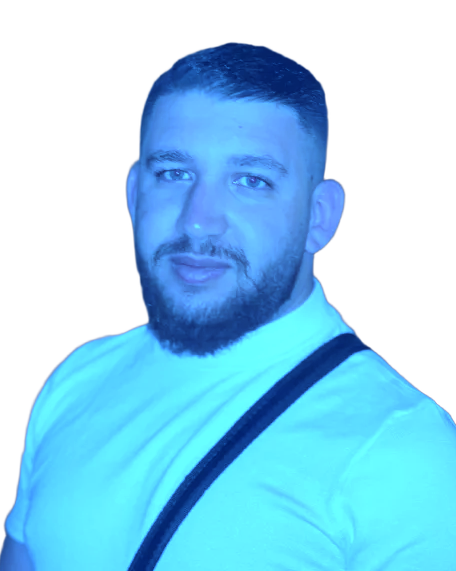
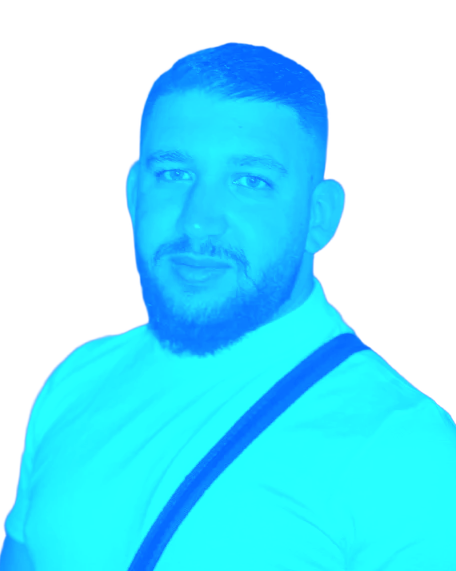
Push portrait further into the site cyan palette.

diff --git a/src/App.css b/src/App.css
@@ -179,6 +179,7 @@
 
 .photo-frame {
   position: relative;
+  isolation: isolate;
   width: min(100%, 280px);
   aspect-ratio: 4 / 5;
   border-radius: 1rem;
@@ -188,6 +189,16 @@
     linear-gradient(145deg, rgba(15, 23, 42, 0.9), rgba(8, 10, 12, 0.95)),
     radial-gradient(circle at 30% 20%, rgba(34, 211, 238, 0.12), transparent 55%);
   box-shadow: 0 20px 50px rgba(0, 0, 0, 0.35);
+}
+
+.photo-frame::after {
+  content: '';
+  position: absolute;
+  inset: 0;
+  background: #22d3ee;
+  mix-blend-mode: color;
+  opacity: 0.7;
+  pointer-events: none;
 }
 
 .photo-placeholder {
@@ -231,7 +242,7 @@
 }
 
 .halftone-photo {
-  filter: contrast(1.12) saturate(1.25) hue-rotate(18deg);
+  filter: contrast(1.14) saturate(1.35) hue-rotate(32deg);
 }
 
 .btn {

diff --git a/scripts/process-portrait.py b/scripts/process-portrait.py
@@ -17,13 +17,13 @@ def grade_cyan(rgb: np.ndarray) -> np.ndarray:
     f = rgb.astype(np.float32)
     # Reduce warm yellow/orange, lift cyan-blue.
     r, g, b = f[..., 0], f[..., 1], f[..., 2]
-    r = r * 0.52 + g * 0.06
-    g = g * 0.82 + b * 0.18
-    b = np.minimum(255.0, b * 1.42 + 36.0)
-    # Mix toward site accent #22d3ee.
-    r = r * 0.72 + 12.0
-    g = g * 0.88 + 38.0
-    b = np.minimum(255.0, b * 0.78 + 72.0)
+    r = r * 0.38 + g * 0.08
+    g = g * 0.78 + b * 0.22
+    b = np.minimum(255.0, b * 1.55 + 48.0)
+    # Mix hard toward site accent #22d3ee.
+    r = r * 0.55 + 18.0
+    g = g * 0.72 + 72.0
+    b = np.minimum(255.0, b * 0.55 + 140.0)
     stacked = np.stack([r, g, b], axis=-1)
     return np.clip(stacked, 0, 255).astype(np.uint8)
 
